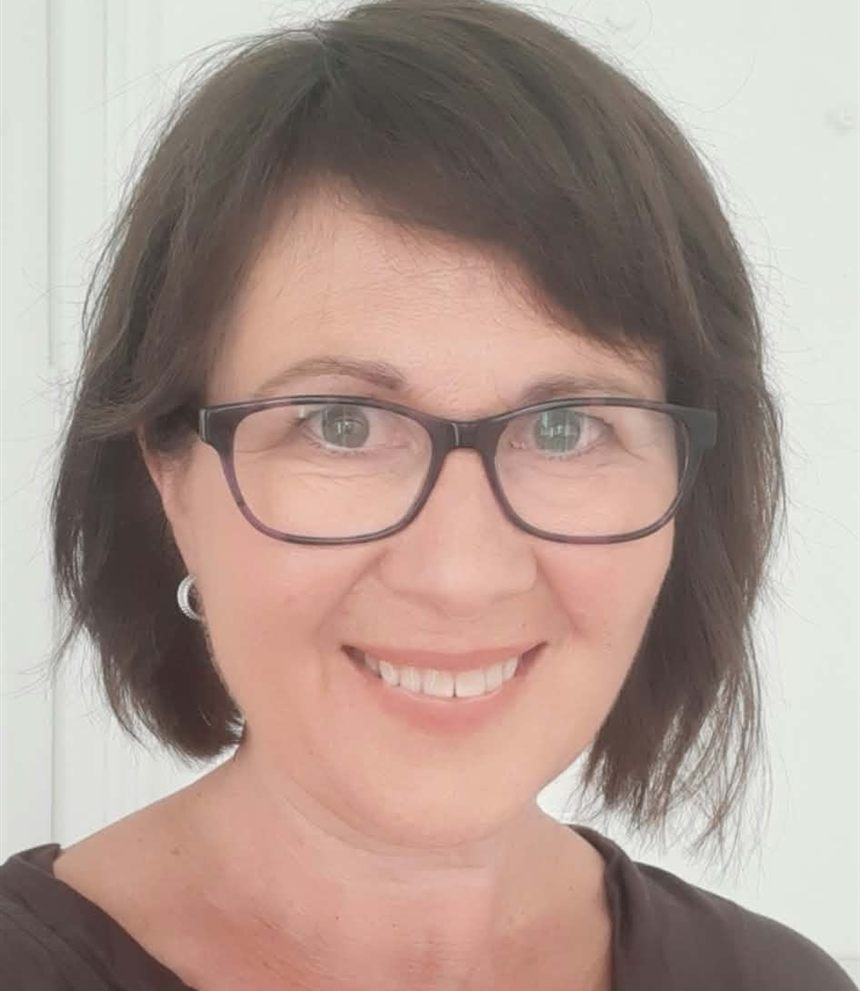
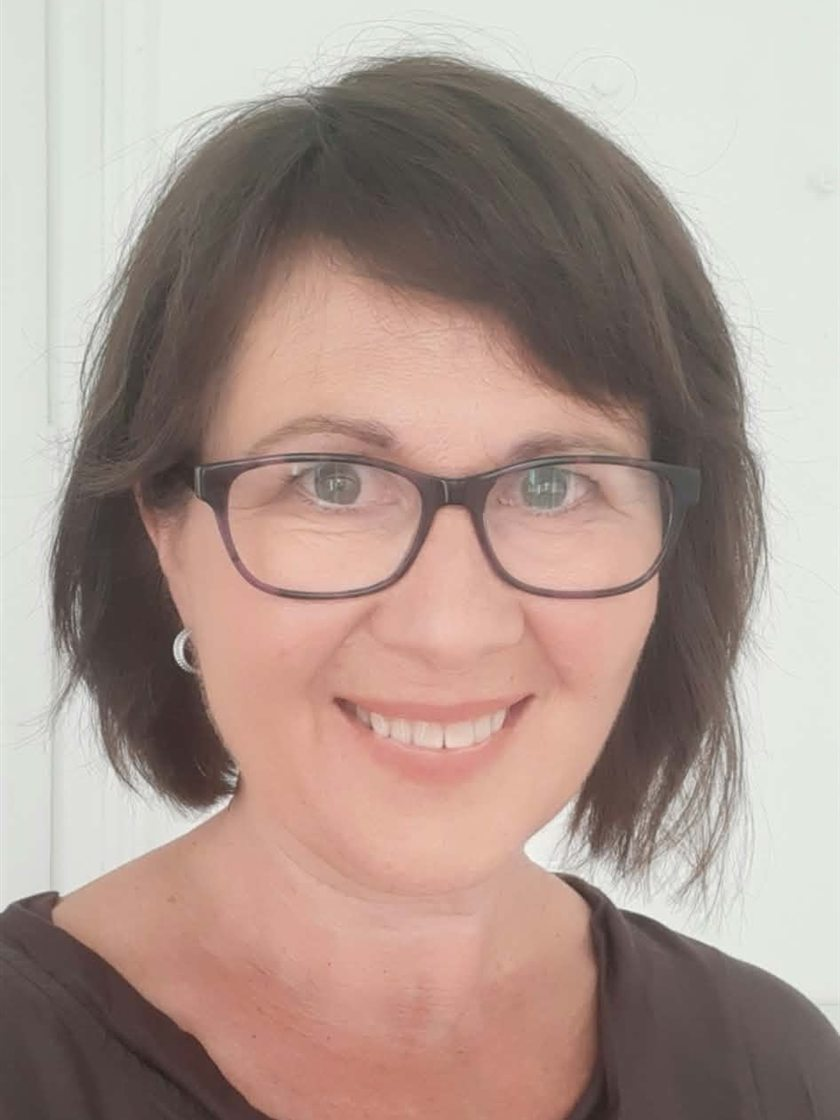
Márkanév, logó, árlista és portré javítása
- Logó a fejlécben, láblécben és favicon/app-ikonként
- Márkanév: HegKezelés & FasciaHarmónia
- Árlista a megadott árak alapján, kitalált bérletek és lemondási szabály nélkül
- Portré újravágva, a széthúzott megjelenés javítva

diff --git a/index.html b/index.html
@@ -3,14 +3,15 @@
 <head>
   <meta charset="utf-8">
   <meta name="viewport" content="width=device-width, initial-scale=1">
-  <title>Nyugalom Jóga – gerincjóga, masszázs és fasciális kezelések</title>
+  <title>HegKezelés &amp; FasciaHarmónia – hegkezelés, fasciális kezelések, masszázs és gerinctorna</title>
   <meta name="description" content="Gerinctorna, vagus-, has-, mélyszöveti és nyirokmasszázs, fasciális arckezelés és fájdalommentes hegkezelés. Kattints a testtérképen arra a testrészre, ahol panaszod van.">
   <meta name="theme-color" content="#f8f4eb">
   <meta property="og:type" content="website">
   <meta property="og:locale" content="hu_HU">
-  <meta property="og:title" content="Nyugalom Jóga – gerincjóga és kezelések">
+  <meta property="og:title" content="HegKezelés &amp; FasciaHarmónia">
   <meta property="og:description" content="Gyengéd, fájdalommentes kezelések és gerinctorna az egyensúlyodért.">
-  <link rel="icon" href="favicon.svg" type="image/svg+xml">
+  <link rel="icon" href="favicon.png" type="image/png">
+  <link rel="apple-touch-icon" href="apple-touch-icon.png">
   <link rel="stylesheet" href="css/style.css">
   <script>document.documentElement.classList.add('js');</script>
 </head>
@@ -20,16 +21,11 @@
   <!-- ===================== FEJLÉC ===================== -->
   <header class="site-header" id="top">
     <div class="container header-inner">
-      <a class="brand" href="#top" aria-label="Nyugalom Jóga – kezdőlap">
-        <svg viewBox="0 0 32 32" fill="currentColor" aria-hidden="true">
-          <path d="M16 3c3.2 4 4.2 8.600 0 15-4.200-6.400-3.200-11 0-15z"/>
-          <path d="M5.500 9.500c5.200-.3 9.300 2.700 10.500 9-6 .3-10.200-2.800-10.500-9z" opacity=".8"/>
-          <path d="M26.500 9.500c-5.200-.3-9.300 2.700-10.500 9 6 .3 10.200-2.800 10.500-9z" opacity=".8"/>
-          <path d="M2 21c5.500.4 10.300 1.500 14 6 3.700-4.500 8.500-5.600 14-6-3.800 6.200-8.600 9-14 9S5.800 27.200 2 21z" opacity=".55"/>
-        </svg>
+      <a class="brand" href="#top" aria-label="HegKezelés és FasciaHarmónia – kezdőlap">
+        <img class="brand-logo" src="assets/img/logo.png" alt="" width="472" height="422">
         <span class="brand-text">
-          <span class="brand-name">Nyugalom Jóga</span>
-          <span class="brand-sub">Gerincjóga · Kezelések</span>
+          <span class="brand-name">HegKezelés &amp; FasciaHarmónia</span>
+          <span class="brand-sub">Hegkezelés · Fasciális kezelések</span>
         </span>
       </a>
 
@@ -59,7 +55,7 @@
       </div>
       <div class="container">
         <div class="hero-copy">
-          <span class="eyebrow">Gerincjóga · Masszázs · Fasciális kezelések</span>
+          <span class="eyebrow">Hegkezelés · Fasciális kezelések</span>
           <h1 id="hero-title">Kerülj újra <em>egyensúlyba</em>, kíméletesen</h1>
           <p class="hero-lead">Gyengéd, fájdalommentes kezelések és gerinctorna, hogy a tested lazuljon, az idegrendszered megnyugodjon, a mindennapjaid pedig könnyebbek legyenek.</p>
           <div class="hero-actions">
@@ -99,7 +95,7 @@
     <section class="section" id="rolam" aria-labelledby="rolam-title">
       <div class="container about-grid">
         <div class="about-photo reveal">
-          <img src="assets/img/portre.jpg" alt="Mosolygó, szemüveges, barna hajú nő portréja" width="860" height="991" loading="lazy">
+          <img src="assets/img/portre.jpg" alt="Mosolygó, szemüveges, barna hajú nő portréja" width="840" height="1120" loading="lazy">
         </div>
         <div class="about-copy reveal" style="--d:.1s">
           <span class="eyebrow">Bemutatkozás</span>
@@ -278,37 +274,26 @@
     <section class="section section--tint" id="arak" aria-labelledby="arak-title">
       <div class="container">
         <header class="section-head section-head--center reveal">
-          <span class="eyebrow">Árak</span>
-          <h2 id="arak-title">Átlátható árak</h2>
-          <p>Az első alkalmon röviden átbeszéljük a panaszaidat és az egészségi állapotodat, így biztosan a számodra megfelelő kezelést kapod.</p>
+          <span class="eyebrow">Árlista</span>
+          <h2 id="arak-title">Kezelések és árak</h2>
+          <p>Minden kezelés előtt röviden átbeszéljük a panaszaidat és az egészségi állapotodat, hogy biztosan a számodra megfelelő kezelést kapd.</p>
         </header>
 
-        <!-- TODO: ÍRD ÁT A VALÓS ÁRAKRA ÉS IDŐTARTAMOKRA (a mostani számok csak mintaként szerepelnek) -->
-        <div class="price-columns">
-          <div class="price-block reveal">
-            <h3>Masszázsok és kezelések</h3>
-            <ul class="price-list">
-              <li><span><strong>Vagus masszázs</strong><small>60 perc</small></span><i></i><b>12 000 Ft</b></li>
-              <li><span><strong>Hasmasszázs (viscerális mobilizáció)</strong><small>45 perc</small></span><i></i><b>10 000 Ft</b></li>
-              <li><span><strong>Mélyszöveti masszázs</strong><small>60 perc</small></span><i></i><b>13 000 Ft</b></li>
-              <li><span><strong>Nyirokmasszázs</strong><small>60 perc</small></span><i></i><b>12 000 Ft</b></li>
-              <li><span><strong>Fasciális arckezelés</strong><small>60 perc</small></span><i></i><b>14 000 Ft</b></li>
-              <li><span><strong>Funkcionális hegintegráció</strong><small>45 perc, alkalmanként</small></span><i></i><b>10 000 Ft</b></li>
-            </ul>
-          </div>
-
-          <div class="price-block price-block--featured reveal" style="--d:.1s">
-            <h3>Gerinctorna</h3>
-            <ul class="price-list">
-              <li><span><strong>Egyéni alkalom</strong><small>60 perc</small></span><i></i><b>10 000 Ft</b></li>
-              <li><span><strong>Csoportos alkalom</strong><small>60 perc</small></span><i></i><b>3 000 Ft</b></li>
-              <li><span><strong>5 alkalmas bérlet</strong><small>csoportos, 2 hónapig érvényes</small></span><i></i><b>13 000 Ft</b></li>
-            </ul>
-            <p class="price-aside">Az időpontokról és a csoportos órákról érdeklődj telefonon, WhatsAppon vagy e-mailben.</p>
-          </div>
+        <div class="price-table reveal">
+          <div class="pt-head" aria-hidden="true"><span>Kezelés</span><span>Időtartam</span><span>Ár</span></div>
+          <ul>
+            <li><div class="pt-name"><strong>Fasciális arckezelés</strong></div><span class="pt-dur">60 perc</span><b class="pt-price">20 000 Ft</b></li>
+            <li><div class="pt-name"><strong>Hegkezelés</strong><small>fájdalommentes hegintegráció</small></div><span class="pt-dur">60 perc</span><b class="pt-price">20 000 Ft</b></li>
+            <li><div class="pt-name"><strong>Nyirokmasszázs</strong></div><span class="pt-dur">90 perc</span><b class="pt-price">20 000 Ft</b></li>
+            <li><div class="pt-name"><strong>Mélyszöveti masszázs</strong><small>teljes testes kötőszöveti mobilizáció</small></div><span class="pt-dur">90 perc</span><b class="pt-price">24 000 Ft</b></li>
+            <li><div class="pt-name"><strong>Hasmasszázs</strong><small>viscerális mobilizáció</small></div><span class="pt-dur">40 perc</span><b class="pt-price">13 000 Ft</b></li>
+            <li><div class="pt-name"><strong>Vagus masszázs</strong><small>stresszcsökkentés és idegrendszeri regeneráció</small></div><span class="pt-dur">30 perc</span><b class="pt-price">10 000 Ft</b></li>
+            <li><div class="pt-name"><strong>Gerinctorna</strong></div><span class="pt-dur">60 perc</span><b class="pt-price">15 000 Ft</b></li>
+          </ul>
         </div>
 
-        <p class="price-note reveal">Az árak forintban értendők. Az időpont lemondása legalább 24 órával a kezelés előtt díjmentes.</p>
+        <p class="price-note reveal">Az árak forintban értendők.</p>
+        <p class="price-cta reveal"><a class="btn btn--clay" href="#kapcsolat">Időpontfoglalás</a></p>
       </div>
     </section>
 
@@ -344,10 +329,6 @@
           <details>
             <summary>Hogyan foglalhatok időpontot?</summary>
             <p>Telefonon, WhatsAppon vagy e-mailben. Írd meg, melyik kezelés érdekel, és egyeztetünk egy neked megfelelő időpontot.</p>
-          </details>
-          <details>
-            <summary>Mi a lemondás szabálya?</summary>
-            <p>Az időpontot a kezelés előtt legalább 24 órával díjmentesen lemondhatod vagy áthelyezheted. <!-- TODO: írd át a valós szabályra --></p>
           </details>
         </div>
       </div>
@@ -396,13 +377,8 @@
       <div class="footer-grid">
         <div>
           <a class="brand" href="#top" aria-label="Vissza az oldal tetejére">
-            <svg viewBox="0 0 32 32" fill="currentColor" aria-hidden="true">
-              <path d="M16 3c3.200 4 4.200 8.600 0 15-4.200-6.400-3.200-11 0-15z"/>
-              <path d="M5.500 9.500c5.200-.3 9.300 2.700 10.500 9-6 .3-10.200-2.800-10.500-9z" opacity=".8"/>
-              <path d="M26.500 9.500c-5.200-.3-9.300 2.700-10.500 9 6 .3 10.200-2.800 10.500-9z" opacity=".8"/>
-              <path d="M2 21c5.500.4 10.300 1.500 14 6 3.700-4.500 8.500-5.600 14-6-3.800 6.200-8.600 9-14 9S5.800 27.200 2 21z" opacity=".55"/>
-            </svg>
-            <span class="brand-text"><span class="brand-name">Nyugalom Jóga</span><span class="brand-sub">Gerincjóga · Kezelések</span></span>
+            <img class="brand-logo" src="assets/img/logo-light.png" alt="" width="472" height="422">
+            <span class="brand-text"><span class="brand-name">HegKezelés &amp; FasciaHarmónia</span><span class="brand-sub">Hegkezelés · Fasciális kezelések</span></span>
           </a>
           <p class="footer-about">Gerinctorna, gyengéd masszázs- és fasciális kezelések, hogy a tested és a lelked is egyensúlyra találjon.</p>
         </div>
@@ -427,7 +403,7 @@
         </div>
       </div>
       <div class="footer-bottom">
-        <span>© <span id="year">2026</span> Nyugalom Jóga. Minden jog fenntartva.</span>
+        <span>© <span id="year">2026</span> HegKezelés &amp; FasciaHarmónia. Minden jog fenntartva.</span>
         <span>Az oldalon szereplő tartalom tájékoztató jellegű, nem helyettesít orvosi vizsgálatot vagy tanácsot.</span>
       </div>
     </div>

diff --git a/css/style.css b/css/style.css
@@ -1,5 +1,5 @@
 /* ==========================================================================
-   Nyugalom Jóga – stíluslap
+   HegKezelés & FasciaHarmónia – stíluslap
    Természetes, visszafogott színek; rendszerbetűk (nincs külső letöltés → GDPR-barát)
    ========================================================================== */
 
@@ -796,3 +796,43 @@ h1, h2, h3 {
 .link-btn:hover { color: var(--forest); }
 .about-photo { max-width: 440px; width: 100%; }
 @media (max-width: 820px) { .about-photo { margin-inline: auto; } }
+
+/* ==========================================================================
+   Logó, árlista-táblázat, portré (3. verzió)
+   ========================================================================== */
+.brand-logo { height: 44px; width: auto; flex: none; }
+.brand-name { font-size: 1.2rem; }
+.site-footer .brand-logo { height: 50px; }
+@media (max-width: 480px) {
+  .brand-sub { display: none; }
+  .brand-name { font-size: 1.02rem; }
+  .brand-logo { height: 38px; }
+  .brand { gap: 9px; }
+}
+
+/* Portré: természetes arány, nem ívre vágva */
+.about-photo { max-width: 400px; }
+.about-photo img { aspect-ratio: 3 / 4; object-position: 50% 18%; border-radius: 28px; }
+.about-photo::before { border-radius: 28px; inset: 18px -18px -18px 18px; }
+
+/* Árlista */
+.price-table { max-width: 860px; margin-inline: auto; background: var(--card); border: 1px solid var(--line); border-radius: var(--radius); box-shadow: var(--shadow); overflow: hidden; }
+.pt-head, .price-table li { display: grid; grid-template-columns: 1fr 120px 130px; gap: 16px; align-items: center; padding: 0 34px; }
+.pt-head { padding-block: 16px; background: var(--forest); color: #dfe6d6; font: 600 0.76rem/1 var(--sans); letter-spacing: 0.16em; text-transform: uppercase; }
+.pt-head span:nth-child(2), .pt-head span:nth-child(3) { text-align: right; }
+.price-table li { padding-block: 20px; border-bottom: 1px solid var(--line); transition: background 0.2s; }
+.price-table li:last-child { border-bottom: 0; }
+.price-table li:hover { background: rgba(223, 230, 214, 0.35); }
+.pt-name strong { display: block; font: 400 1.25rem/1.3 var(--serif); color: var(--forest); }
+.pt-name small { display: block; margin-top: 3px; font-size: 0.9rem; color: var(--ink-2); }
+.pt-dur { text-align: right; color: var(--sage-d); font-weight: 600; font-variant-numeric: tabular-nums; }
+.pt-price { text-align: right; font: 400 1.35rem/1 var(--serif); color: var(--forest); white-space: nowrap; }
+.price-note { text-align: center; }
+.price-cta { margin-top: 30px; text-align: center; }
+@media (max-width: 640px) {
+  .pt-head { display: none; }
+  .price-table li { grid-template-columns: 1fr auto; gap: 4px 12px; padding: 18px 20px; }
+  .pt-name { grid-column: 1 / -1; }
+  .pt-dur { text-align: left; }
+}
+.about-photo img { height: auto; }

diff --git a/adatvedelem.html b/adatvedelem.html
@@ -3,11 +3,12 @@
 <head>
   <meta charset="utf-8">
   <meta name="viewport" content="width=device-width, initial-scale=1">
-  <title>Adatvédelem és impresszum – Nyugalom Jóga</title>
+  <title>Adatvédelem és impresszum – HegKezelés &amp; FasciaHarmónia</title>
   <meta name="description" content="Adatkezelési tájékoztató és impresszum.">
   <meta name="robots" content="noindex, follow">
   <meta name="theme-color" content="#f8f4eb">
-  <link rel="icon" href="favicon.svg" type="image/svg+xml">
+  <link rel="icon" href="favicon.png" type="image/png">
+  <link rel="apple-touch-icon" href="apple-touch-icon.png">
   <link rel="stylesheet" href="css/style.css">
 </head>
 <body>
@@ -15,14 +16,9 @@
 
   <header class="site-header is-scrolled">
     <div class="container header-inner">
-      <a class="brand" href="index.html" aria-label="Nyugalom Jóga – kezdőlap">
-        <svg viewBox="0 0 32 32" fill="currentColor" aria-hidden="true">
-          <path d="M16 3c3.200 4 4.200 8.600 0 15-4.200-6.400-3.200-11 0-15z"/>
-          <path d="M5.500 9.500c5.200-.3 9.300 2.700 10.500 9-6 .3-10.200-2.800-10.500-9z" opacity=".8"/>
-          <path d="M26.500 9.500c-5.200-.3-9.300 2.700-10.500 9 6 .3 10.200-2.800 10.500-9z" opacity=".8"/>
-          <path d="M2 21c5.500.4 10.300 1.500 14 6 3.700-4.500 8.500-5.600 14-6-3.800 6.200-8.600 9-14 9S5.800 27.200 2 21z" opacity=".55"/>
-        </svg>
-        <span class="brand-text"><span class="brand-name">Nyugalom Jóga</span><span class="brand-sub">Gerincjóga · Kezelések</span></span>
+      <a class="brand" href="index.html" aria-label="HegKezelés &amp; FasciaHarmónia – kezdőlap">
+        <img class="brand-logo" src="assets/img/logo.png" alt="" width="472" height="422">
+        <span class="brand-text"><span class="brand-name">HegKezelés &amp; FasciaHarmónia</span><span class="brand-sub">Hegkezelés · Fasciális kezelések</span></span>
       </a>
       <a class="btn btn--ghost btn--sm" href="index.html">← Vissza a főoldalra</a>
     </div>
@@ -93,7 +89,7 @@
   <footer class="site-footer">
     <div class="container">
       <div class="footer-bottom" style="margin-top:0;border-top:0;padding-top:0;">
-        <span>© <span id="year">2026</span> Nyugalom Jóga. Minden jog fenntartva.</span>
+        <span>© <span id="year">2026</span> HegKezelés &amp; FasciaHarmónia. Minden jog fenntartva.</span>
         <a href="index.html">Vissza a főoldalra</a>
       </div>
     </div>

diff --git a/js/main.js b/js/main.js
@@ -1,5 +1,5 @@
 /* ==========================================================================
-   Nyugalom Jóga – működés
+   HegKezelés & FasciaHarmónia – működés
    Menü, görgetési hatások, interaktív testtérkép
    ========================================================================== */
 (function () {

diff --git a/README.md b/README.md
@@ -1,4 +1,4 @@
-# Nyugalom Jóga – weboldal
+# HegKezelés & FasciaHarmónia – weboldal
 
 Statikus, magyar nyelvű weboldal jógaoktatónak (HTML + CSS + JS, nincs build lépés, nincs külső függőség).
 
@@ -6,7 +6,7 @@ Statikus, magyar nyelvű weboldal jógaoktatónak (HTML + CSS + JS, nincs build 
 
 | Fájl | Mire való |
 | --- | --- |
-| `index.html` | Főoldal (hero, rólam, szolgáltatások, testtérkép, árak, órarend, GYIK, kapcsolat) |
+| `index.html` | Főoldal (hero, bemutatkozás, kezelések, testtérkép, árlista, GYIK, kapcsolat) |
 | `adatvedelem.html` | Adatvédelmi tájékoztató és impresszum (sablon, ki kell tölteni) |
 | `js/regions.js` | **A testtérkép tartalma**: testrészek, panaszok, jógagyakorlatok, masszázs, figyelmeztetés |
 | `js/services.js` | **A kezelések leírásai** (felugró ablakok): bevezető, javallatok, ellenjavallatok |
@@ -19,11 +19,11 @@ Statikus, magyar nyelvű weboldal jógaoktatónak (HTML + CSS + JS, nincs build 
 
 A kitalált minta-adatokat érdemes lecserélni. Keresd a `TODO` megjegyzéseket, illetve ezeket:
 
-- név / márkanév: `Nyugalom Jóga` (index.html, adatvedelem.html)
+- név (a bemutatkozásban, az impresszumban) és kapcsolati adatok
 - telefon: `+36 30 000 0000`, `tel:+36300000000`, `wa.me/36300000000`
 - e-mail: `info@example.com`
 - cím: `1111 Budapest, Minta utca 1.`
-- árak és időtartamok (az `index.html` Árak szakaszában, jelenleg mintaszámok), lemondási szabály, GYIK
+- árak: az `index.html` Árlista szakaszában (a megadott árlista alapján)
 - a nyitókép (`assets/img/hero.jpg`) és a kapcsolat-szekció háttere (`banner.jpg`) még stock fotó, érdemes saját képre cserélni
 - `adatvedelem.html`: a sárgával jelölt mezők
 
